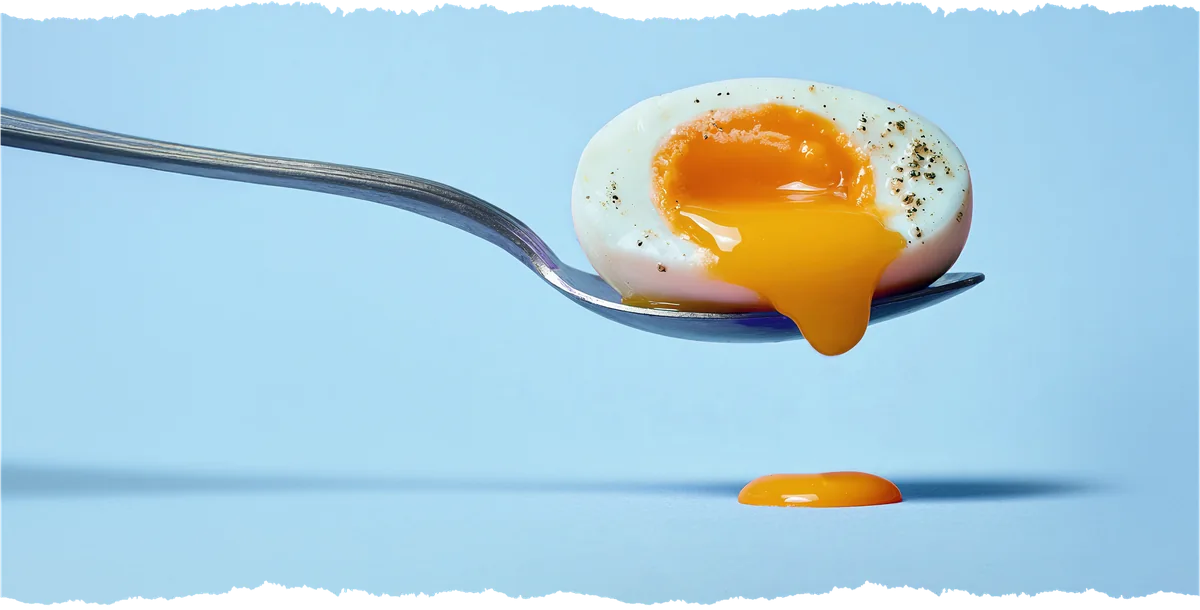
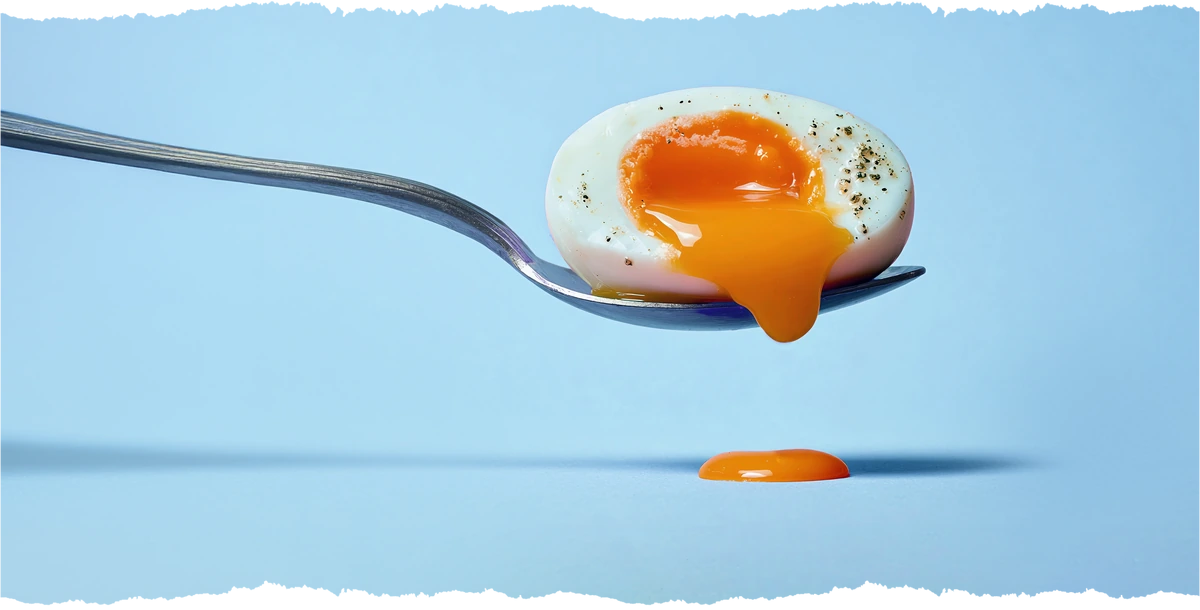
QA item 2: replace the homepage band photo with the adjusted yolk
The client supplied a re-coloured frame with a deeper yolk. Both banner
variants are re-cut from it: the yolk now averages rgb(219,117,21) against the
previous rgb(219,138,20).

The replacement is a 7306x5837 full-frame PNG while the banner is a 2000x1017
crop, so it had to be re-cut rather than dropped in. The crop is full-width at
the banner's own 1.9666 aspect, offset 1500px down -- chosen by matching the
egg's rendered position to the existing artwork (vertical centre 0.3115
against 0.3126), not by eye.

Two things worth recording:

- The existing assets are RGBA and 92,643 of their pixels are transparent:
  that is the band's torn top and bottom edge. My first encode was RGB and
  would have squared both off -- it looks correct in isolation, and the tear
  only disappears in place. The new photo is composited with the original
  alpha channel, so the transparent-pixel counts match the originals exactly
  (92,643 and 34,330).

- The file the client sent is NOT the _alt.png already in ref/FIN
  Deliverables: same name, different hash, 5837px tall against 5421. Theirs is
  the newer export and is what I used.

item2.js decodes both variants in the browser and asserts dimensions, the
alpha (overall, top quarter, bottom quarter) and the yolk's mean colour.
Verified to fail on both regressions: the old artwork trips the yolk check
(green channel 138 vs 117) and an alpha-stripped re-encode trips all three
transparency checks.
[…]

Changed region(s): [[0.0, 0.1246, 0.8325, 0.5918], [0.4317, 0.7164, 0.925, 0.841], [0.0, 0.7164, 0.2775, 0.8098]]

diff --git a/scripts/qa/jammy/item2.js b/scripts/qa/jammy/item2.js
@@ -1,0 +1,82 @@
+const { chromium } = require('playwright');
+const path=require('path'), fs=require('fs');
+const R=[];const ck=(n,p,d='')=>{R.push(p);console.log(`${p?'PASS':'FAIL'}  ${n}${d?' — '+d:''}`)};
+
+// QA item 2: the homepage band's photograph carries the client's adjusted
+// yolk colour, and still carries its torn edges.
+//
+// The replacement arrived as a 7306x5837 full-frame PNG while the banner is a
+// 2000x1017 crop, so the asset had to be re-cut -- and the originals are RGBA:
+// 92,643 of their pixels are transparent, which is what makes the band's torn
+// top and bottom. Re-encoding the new photo as RGB would have looked right in
+// isolation and silently squared off both edges, so the alpha is asserted
+// here rather than left to inspection.
+(async()=>{
+  const ROOT=path.join(__dirname,'../../..');
+  const b=await chromium.launch();
+  const p=await b.newContext({viewport:{width:1440,height:1000},deviceScaleFactor:2}).then(c=>c.newPage());
+  const bad=[];
+  p.on('response',r=>{if(r.status()>=400&&/cta-messy/.test(r.url()))bad.push(r.url().split('/').pop());});
+  await p.goto('http://localhost:7500/',{waitUntil:'networkidle',timeout:60000});
+  await p.getByRole('region',{name:/cookie consent/i}).getByRole('button',{name:/reject all/i}).click().catch(()=>{});
+  await p.waitForTimeout(900);
+
+  // Decode both variants in the browser: dimensions, alpha, and yolk colour.
+  const m=await p.evaluate(async()=>{
+    const read = (src) => new Promise(res=>{
+      const img=new Image();
+      img.onload=()=>{
+        const cv=document.createElement('canvas');
+        cv.width=img.naturalWidth; cv.height=img.naturalHeight;
+        cv.getContext('2d').drawImage(img,0,0);
+        const d=cv.getContext('2d').getImageData(0,0,cv.width,cv.height).data;
+        let clear=0, topClear=0, botClear=0;
+        const W=cv.width,H=cv.height;
+        for(let y=0;y<H;y++) for(let x=0;x<W;x++){
+          if(d[(y*W+x)*4+3]<250){ clear++; if(y<H*0.25) topClear++; else if(y>H*0.75) botClear++; }
+        }
+        // Mean colour of the yolk: saturated orange, sampled across the frame.
+        let rs=0,gs=0,bs=0,n=0;
+        for(let y=0;y<H;y+=2) for(let x=0;x<W;x+=2){
+          const o=(y*W+x)*4, r=d[o],g=d[o+1],bl=d[o+2],a=d[o+3];
+          if(a>250 && r>180 && g>60 && g<200 && bl<130 && (r-bl)>80){ rs+=r; gs+=g; bs+=bl; n++; }
+        }
+        res({w:W,h:H,clear,topClear,botClear,
+             yolk: n? [Math.round(rs/n),Math.round(gs/n),Math.round(bs/n)] : null, yolkPx:n});
+      };
+      img.onerror=()=>res(null);
+      img.src=src;
+    });
+    return {full: await read('/images/jammy/cta-messy.webp'),
+            sm:   await read('/images/jammy/cta-messy-sm.webp')};
+  });
+
+  for (const [tag,exp] of [['full',{w:2000,h:1017}],['sm',{w:1200,h:610}]]) {
+    const a=m[tag];
+    console.log(`\n  --- cta-messy${tag==='sm'?'-sm':''}.webp ---`);
+    if(!a){ ck(`${tag}: decodes`, false); continue; }
+    ck(`${tag}: banner dimensions unchanged`, a.w===exp.w && a.h===exp.h, `${a.w}x${a.h}`);
+    // The torn edges live in the alpha. A re-encode that drops it (saving as
+    // RGB, or an encoder without -alpha_q) squares off the band silently.
+    ck(`${tag}: keeps its transparency`, a.clear>0, `${a.clear} transparent px`);
+    ck(`${tag}: torn along the top`, a.topClear>0, `${a.topClear} px`);
+    ck(`${tag}: torn along the bottom`, a.botClear>0, `${a.botClear} px`);
+    // The client's adjustment is a deeper orange: the previous artwork
+    // averaged rgb(220,139,22) over the yolk, the replacement rgb(220,117,22).
+    // Assert the direction, with room for encoder noise, rather than an exact
+    // triple.
+    if(a.yolk){
+      ck(`${tag}: yolk is the adjusted deeper orange`,
+         a.yolk[1] <= 128, `mean rgb(${a.yolk.join(',')}) — green channel ${a.yolk[1]}, was 139`);
+      ck(`${tag}: still reads as orange, not red`, a.yolk[1] >= 100 && a.yolk[0] > 200,
+         `rgb(${a.yolk.join(',')})`);
+    } else ck(`${tag}: yolk found`, false);
+  }
+
+  console.log('');
+  ck('no broken image requests', bad.length===0, bad.join(','));
+  await b.close();
+  const f=R.filter(x=>!x).length;
+  console.log(`\n${R.length-f}/${R.length} passed`);
+  process.exit(f?1:0);
+})();
